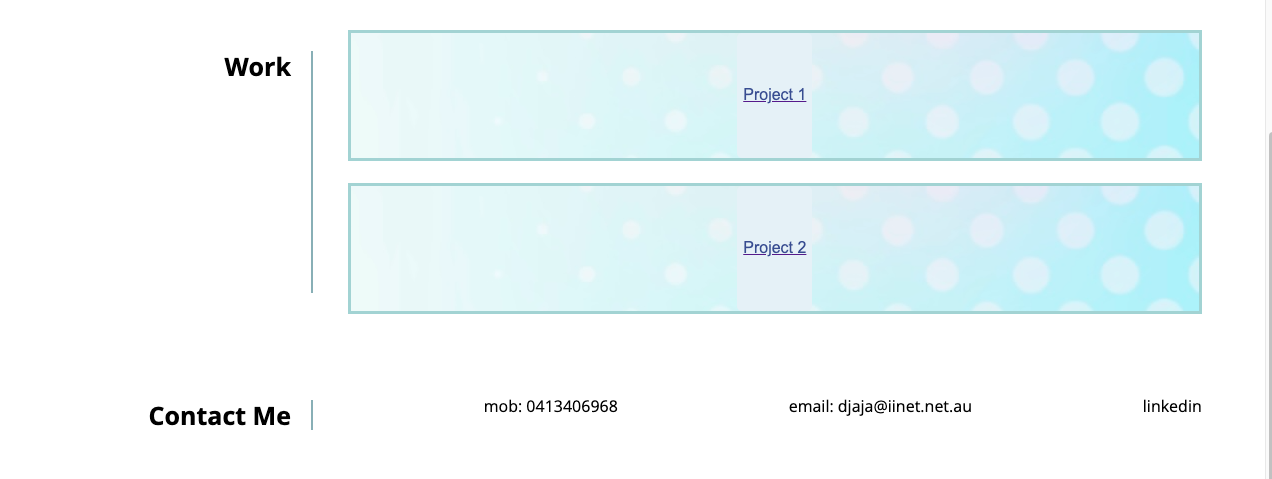
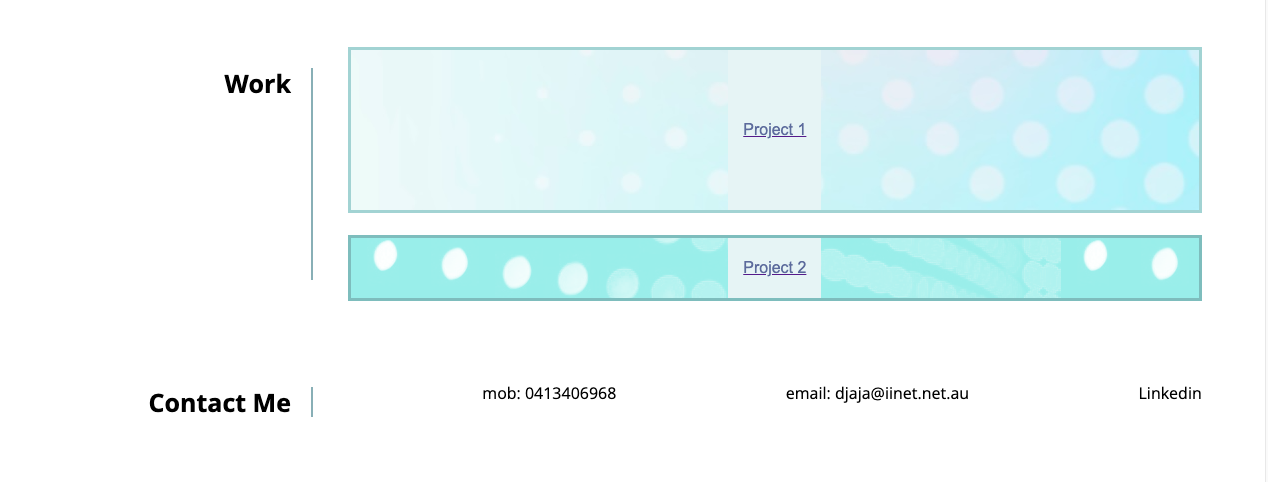
update portfolio

diff --git a/assets/css/styles.css b/assets/css/styles.css
@@ -76,16 +76,30 @@ nav {
     height: 75px;
 }
 
-.project{
+#project1{
     background-image:url("./../img/bgc.jpg");
     justify-content: space-around;
     border: 3px solid rgb(162, 211, 211);
-    min-height: 125px;
-    max-height: 125px;
+    min-height: 160px;
+    max-height: 160px;
     display:flex;
 }
 
+#project2{
+    background-image:url("./../img/bgc.PNG");
+    justify-content: space-around;
+    border: 3px solid rgb(126, 189, 189);
+    min-height: 60px;
+    max-height: 60px;
+    display: flex;
+
+}
+
 #work-cta{
+    padding-left: 15px;
+    padding-right: 15px;
+    padding-top: 10px;
+    padding-bottom: 10px;
     font-size: 1rem;
     border: none;
     color:rgb(56, 77, 145);
@@ -96,6 +110,13 @@ nav {
 
 #hero-cta:hover{
     background-color: var(--color-secondary-hover);
+}
+
+
+@media only screen and (max-width: 600px) {
+    body {
+        background-color: rgb(173,230,225);
+    }
 }
 
 

diff --git a/index.html b/index.html
@@ -79,12 +79,12 @@
                    Work
                 </h2>
                 <div class="project-container">
-                    <a href="https://picsum.photos/1000/500" class="project">
+                    <a href="https://picsum.photos/1000/500" id="project1" class="project">
                     <button id="work-cta">Project 1</button>
                     </a>
                     <br>
                     <a href ="https://docs.google.com/presentation/d/e/2PACX-1vRgj_VUzYj3fhmCJHxSXIsC7YinDXncpVV4rAzJsKkrfbF0G19lQgpwqcmfyBYx_KPI6mGdswg9q9OF/pub?start=false&loop=false&delayms=3000"
-                      class="project">
+                      id="project2" class="project">
                     <button id="work-cta">Project 2</button>
                 </a> 
                 </div>

diff --git a/README.md b/README.md
@@ -1,17 +1,16 @@
 # portfolio
 
 ## Description
-In this portfolio I would like to display my best work, also to let people know why I choose to learn about Web Developtment. I am willing to learn how to build a good website from scracth, it will be long way to go for me, because I am just started doing computer and coding at the same time. With my basic knowledge of computer and coding, at least I can start to make a simple portfolio. I learn a lot from creating my first portfolio, especially about CSS and HTML. Unfortunately I don't have any web application to display, so I replace it with a placeholder image for 'project 1' and google slide for 'project 2'. For sure I will create my own web application in the future. In this simple portfolio, I try to make the presentation look propotional and the color matching. The about me section, I explain my current situation, also after 3 weeks doing course I start to enjoy doing coding. On the CSS I have "helper.css, reset.css, styles.css and variable.css" For the font I use open sans font is a humanist sans serif typeface designed by Steve Matteson from Google Fonts. I make the color of the navigation is gradiens from green to purple.
+In this portfolio I would like to display my best work, also to let people know why I choose to learn about Web Developtment. I am willing to learn how to build a good website from scracth, it will be long way to go for me, because I am just started doing computer and coding at the same time. With my basic knowledge of computer and coding, at least I can start to make a simple portfolio. I learn a lot from creating my first portfolio, especially about CSS and HTML. Unfortunately I don't have any web application to display, so I replace it with a placeholder image for 'project 1' and google slide for 'project 2'. For sure I will create my own web application in the future. In this simple portfolio, I try to make the presentation look propotional and the color matching. The about me section, I explain my current situation, also after 3 weeks doing course I start to enjoy doing coding. On the CSS I have "helper.css, reset.css, styles.css and variable.css" For the font I use open sans font is a humanist sans serif typeface designed by Steve Matteson from Google Fonts. I make the color of the navigation is linear-gradient 90 deg from green to purple. I implement media queries in my portfolio, if the browser window is 600px or smaller, the background color will be light green. On the nav bar I use display: flex, flax-wrap: wrap, flex-direction: row. On the html, 'hero' section I made 3 section: About me, Work and Contact. I made a vertical line next to About me, Work and Contact on the 'page >h2' border-right: 2px solid color light green rgb(136, 175, 182).
   
-
-
+  
 ## Demo
 ![portfolio](./assets/img/screenshot1.png)
 ![portfolio](./assets/img/screenshot2.png)
 
 
 ## Live Link
- https://b-smd.github.io/portfolio/
+https://github.com/B-smd/portfolio.git
 
 "https://picsum.photos/1000/500" 
 
